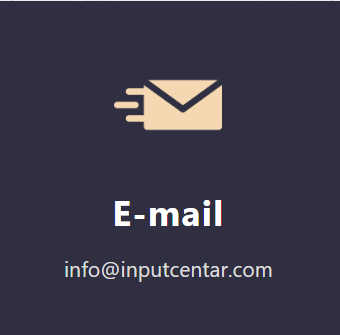
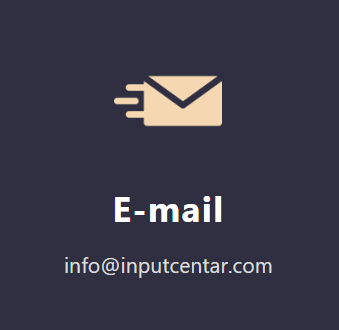
Kontakt

Changed region(s): [[0.3245, 0.2121, 0.6785, 0.3939], [0.177, 0.7879, 0.826, 0.8485], [0.3245, 0.5758, 0.6785, 0.697]]

diff --git a/InputCentar/Kontakt.xaml b/InputCentar/Kontakt.xaml
@@ -10,16 +10,19 @@
     </Shell.TitleView>
 
     <ScrollView>
-        <StackLayout>
+        <StackLayout BackgroundColor="#2f2f41">
             <Image Source="mapa.png"
-                   Aspect="AspectFit"
-               HorizontalOptions="Center"
-               VerticalOptions="Center"/>
+                   
+                   />
             <ImageButton Source="adresa.png"
+                         Scale="0.6"
+                         CornerRadius="50"
                          Clicked="ImageButton_Clicked"/>
             <ImageButton Source="telefon.png"
+                         Scale="0.6"
                          Clicked="OnCallButtonClicked"/>
             <ImageButton Source="mail.png"
+                         Scale="0.6"
                          Clicked="ImageButton_ClickedI"/>
         </StackLayout>
     </ScrollView>
